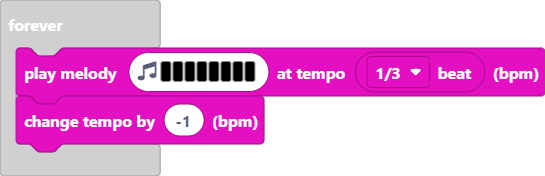
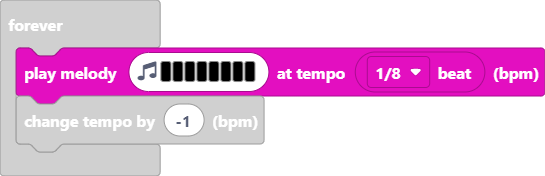
Update main.blocks, main.ts

Changed region(s): [[0.0, 0.5398, 0.4991, 0.8807], [0.7174, 0.3977, 0.7486, 0.4545]]

diff --git a/main.ts b/main.ts
@@ -1258,6 +1258,6 @@ game.onUpdateInterval(7000, function () {
     }
 })
 forever(function () {
-    music.playMelody("G B A G C5 B A B ", music.beat(BeatFraction.Triplet))
+    music.playMelody("G B A G C5 B A B ", music.beat(BeatFraction.Eighth))
     music.changeTempoBy(-1)
 })
